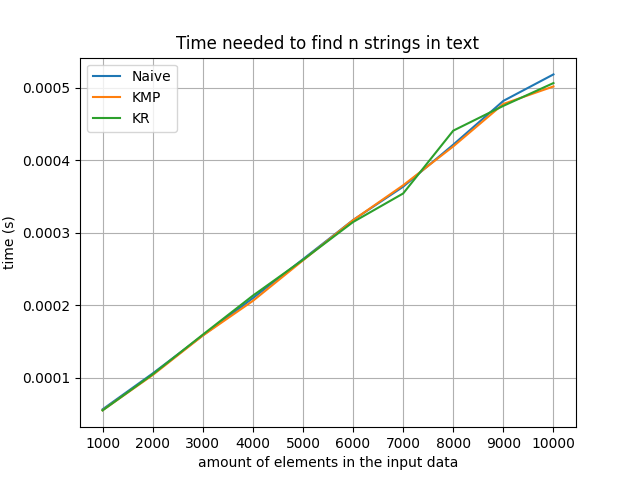
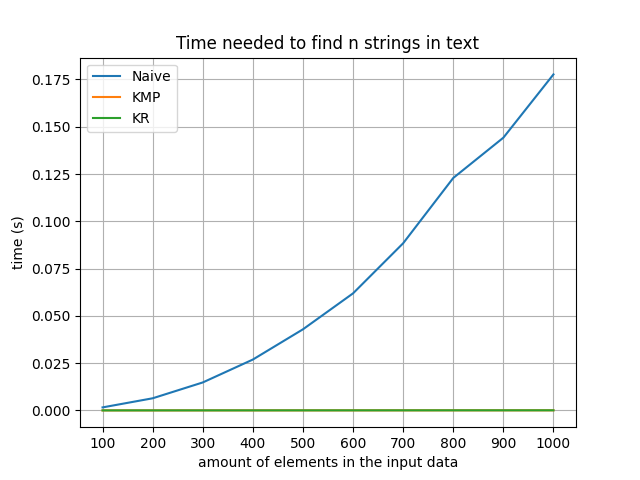
Add naive

diff --git a/zad5/algorithms.py b/zad5/algorithms.py
@@ -1,3 +1,17 @@
+def generate_substrings(text, length):
+    """Generuje wszystkie podciągi text o długości length.
+    Np. `generate_substrings("abcdef", 3)`:
+    - 0, abc
+    - 1, bcd
+    - 2, cde
+    - 3, def
+    """
+    substrings = []
+    for index in range(0, len(text) - length + 1):
+        substrings.append((index, text[index:index + length]))
+    return substrings
+
+
 def find_naive(string, text):
     """
     Naive
@@ -7,7 +21,11 @@ def find_naive(string, text):
     Returns:
         (list): lista pozycji w 'text' (w kolejności rosnącej), od których zaczyna się 'string'
     """
-    pass
+    found = []
+    for (index, substring) in generate_substrings(text, len(string)):
+        if substring == string:
+            found.append(index)
+    return found
 
 
 def find_kmp(string, text):

diff --git a/zad5/main.py b/zad5/main.py
@@ -46,7 +46,7 @@ def plot_all_algorithms(results):
 
 def compare_algorithms():
     results = {}
-    count = [(n + 1) * 1000 for n in range(10)]
+    count = [n * 100 for n in range(1, 11)]  # pan tadeusz has 68 682 words
     for n in count:
         content = generate_input_data(n)
 

diff --git a/zad5/test_main.py b/zad5/test_main.py
@@ -1,6 +1,9 @@
+from algorithms import find_naive
+
+
 class TestNaive:
     def test_simple(self):
-        pass
+        assert find_naive("abc", "dabcabcdddagdabdfabc") == [1, 4, 17]
 
 
 class TestKMP:
